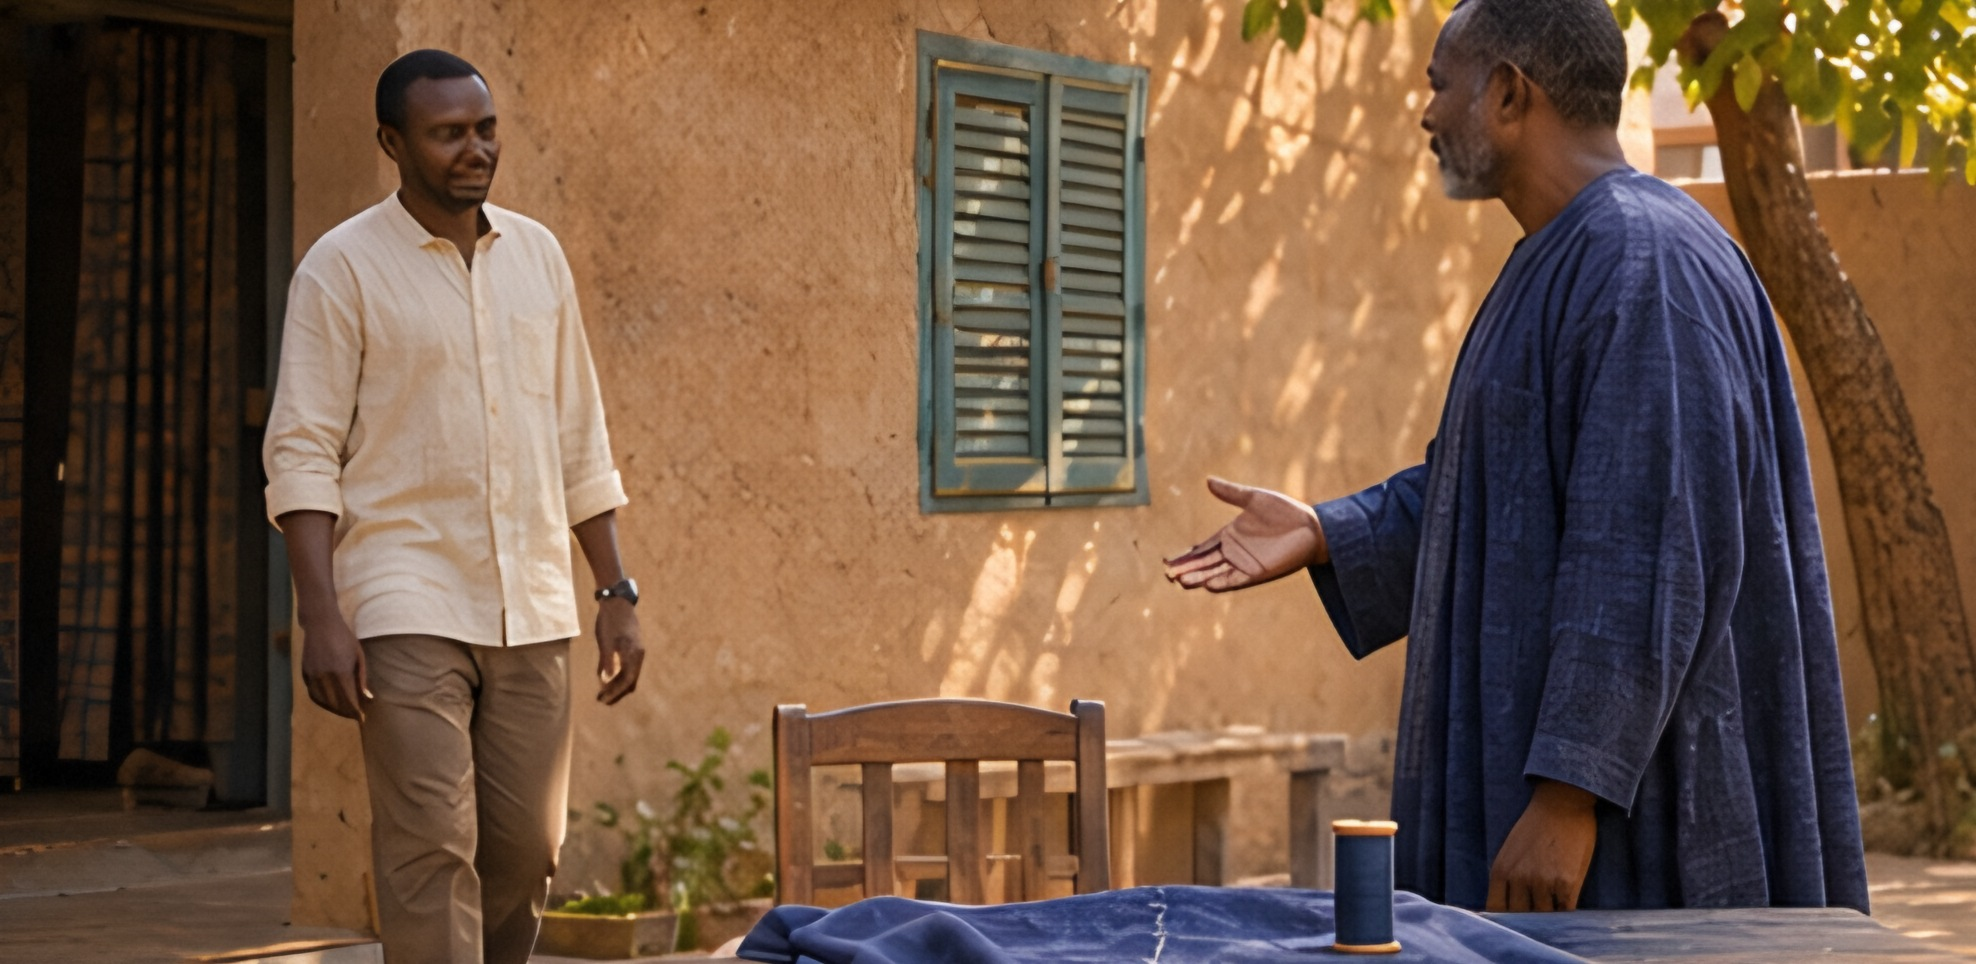
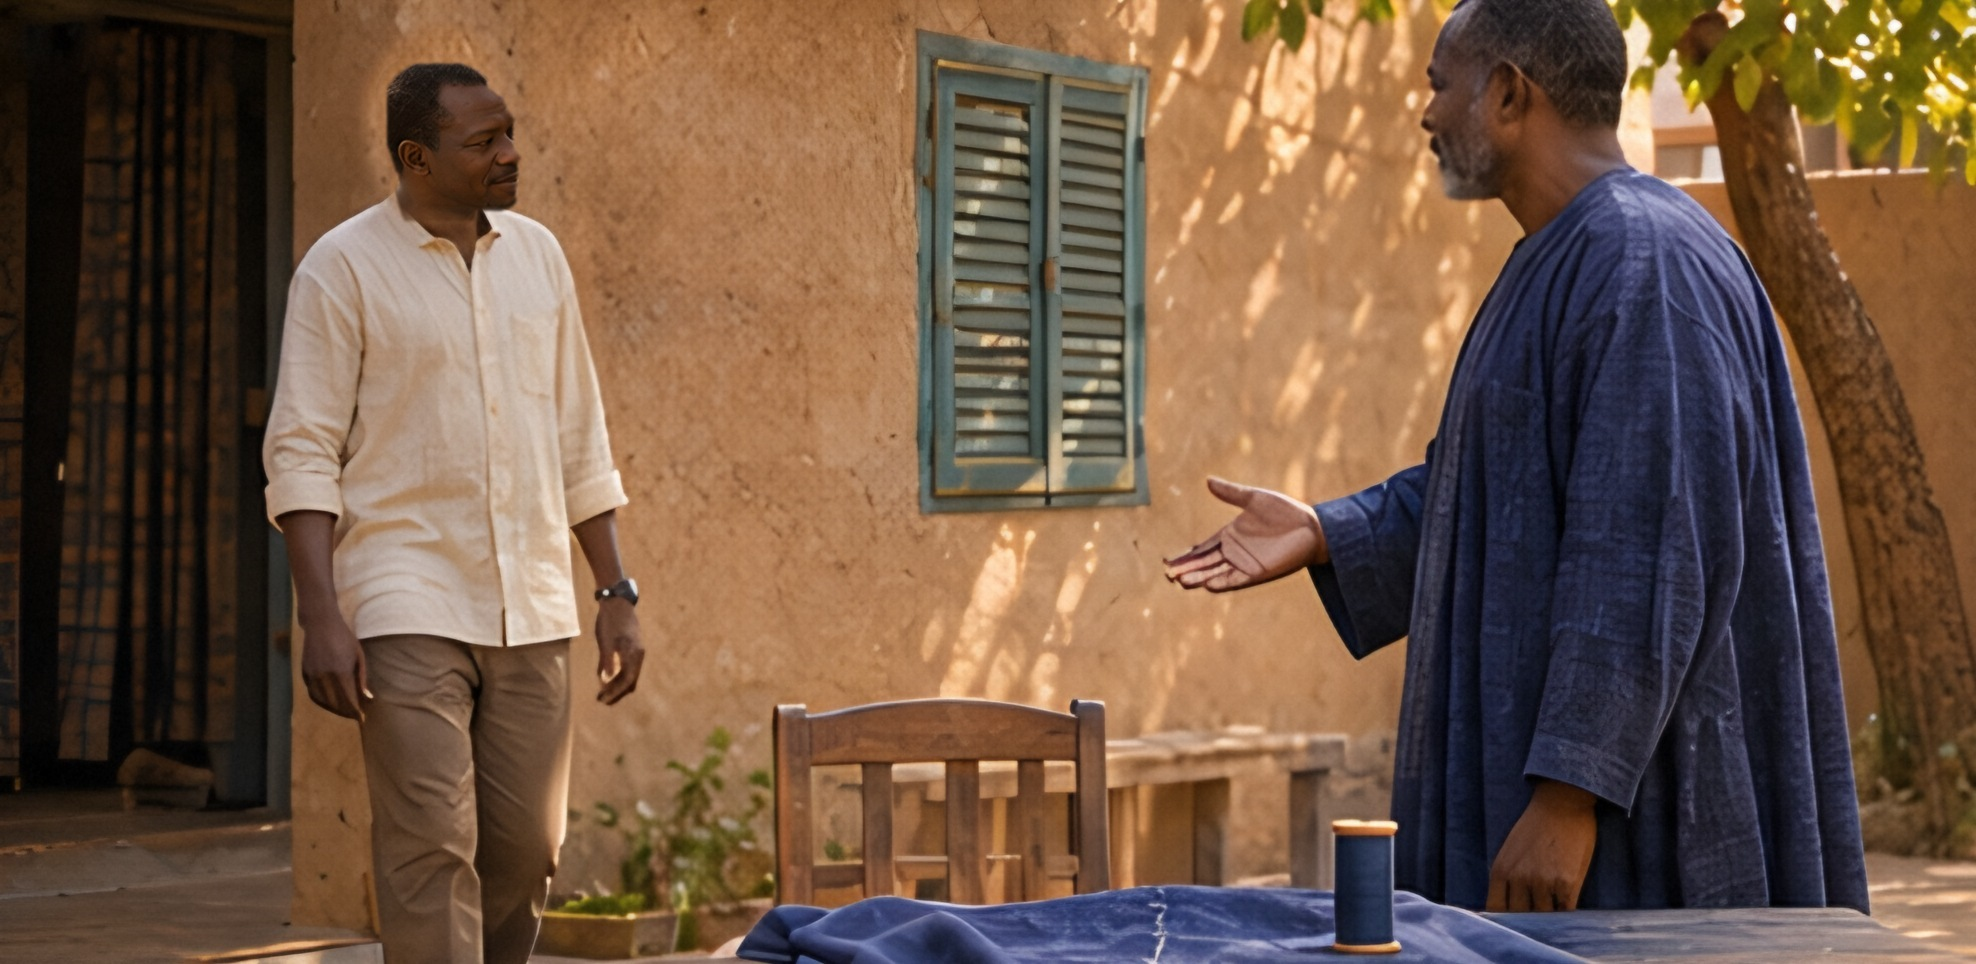
Fix second man's face in arrival shot (vignette 07) using vignette 08
Claude-Session: https://claude.ai/code/session_018pZyfgCUrmuQk4F53kTRGm

Changed region(s): [[0.1852, 0.0311, 0.2778, 0.2178]]

diff --git a/Le_fil_de_la_paix/scripts/07_fix_v07_face.py b/Le_fil_de_la_paix/scripts/07_fix_v07_face.py
@@ -1,0 +1,43 @@
+"""Corrige le visage du second homme dans la vignette 07 (arrivee) : sa tete, illisible apres agrandissement,
+est remplacee par celle de la vignette 08 (meme personnage, meilleure definition), retournee et raccordee.
+Usage : python3 scripts/07_fix_v07_face.py [sx] [x] [y]   -> ecrit assets/img/v07.jpg (original garde dans work/v07_orig.jpg)"""
+import cv2, numpy as np, os, sys, shutil
+if not os.path.exists('work/v07_orig.jpg'): shutil.copy('assets/img/v07.jpg', 'work/v07_orig.jpg')
+A = cv2.imread('work/v07_orig.jpg'); B = cv2.imread('assets/img/v08.jpg')
+S = float(sys.argv[1]) if len(sys.argv) > 1 else 0.42
+PX = int(sys.argv[2]) if len(sys.argv) > 2 else 364      # coin haut-gauche du collage dans v07
+PY = int(sys.argv[3]) if len(sys.argv) > 3 else 58
+# 1) detourage de la tete dans v08
+x0, y0, x1, y1 = 1380, 0, 1800, 440
+roi = B[y0:y1, x0:x1].copy(); m = np.zeros(roi.shape[:2], np.uint8)
+bg, fg = np.zeros((1, 65), np.float64), np.zeros((1, 65), np.float64)
+cv2.grabCut(roi, m, (40, 8, 330, 430), bg, fg, 6, cv2.GC_INIT_WITH_RECT)
+mask = np.where((m == 1) | (m == 3), 255, 0).astype(np.uint8)
+hsv = cv2.cvtColor(roi, cv2.COLOR_BGR2HSV)
+shirt = ((hsv[..., 2] > 150) & (hsv[..., 1] < 95)).astype(np.uint8) * 255      # chemise ecrue : exclue
+mask[shirt > 0] = 0
+mask = cv2.morphologyEx(mask, cv2.MORPH_OPEN, np.ones((7, 7), np.uint8))
+n, lab, st, _ = cv2.connectedComponentsWithStats(mask)
+mask = np.where(lab == 1 + np.argmax(st[1:, cv2.CC_STAT_AREA]), 255, 0).astype(np.uint8)
+mask = cv2.morphologyEx(mask, cv2.MORPH_CLOSE, np.ones((15, 15), np.uint8))
+mask[395:, :] = 0
+# 2) miroir + mise a l'echelle
+roi, mask = roi[:, ::-1], mask[:, ::-1]
+w, h = int(roi.shape[1] * S), int(roi.shape[0] * S)
+roi = cv2.resize(roi, (w, h), interpolation=cv2.INTER_AREA); mask = cv2.resize(mask, (w, h), interpolation=cv2.INTER_AREA)
+# 3) effacer l'ancienne tete : report d'un pan de mur voisin
+out = A.copy().astype(np.float32)
+hx0, hx1, hy0, hy1 = 356, 520, 30, 212
+old = np.zeros(A.shape[:2], np.float32); cv2.ellipse(old, (438, 122), (74, 98), 0, 0, 360, 1, -1)
+old = cv2.GaussianBlur(old, (0, 0), 7)[..., None]
+wall = np.roll(A, -175, axis=1).astype(np.float32)          # mur situe 175 px a droite
+out = out * (1 - old) + wall * old
+# 4) accord colorimetrique sur la peau de v07 puis collage adouci
+ref = A[150:200, 400:470].reshape(-1, 3).astype(np.float32).mean(0)          # joue / machoire d'origine
+src = roi[mask > 200].astype(np.float32).mean(0)
+roi = np.clip(roi.astype(np.float32) * (0.55 + 0.45 * ref / src), 0, 255)
+al = cv2.GaussianBlur(cv2.erode(mask, np.ones((5, 5), np.uint8)), (0, 0), 1.3).astype(np.float32)[..., None] / 255
+al[int(h * 0.80):] *= np.linspace(1, 0, h - int(h * 0.80))[:, None, None]      # fondu du cou vers le col
+out[PY:PY + h, PX:PX + w] = out[PY:PY + h, PX:PX + w] * (1 - al) + roi * al
+cv2.imwrite('assets/img/v07.jpg', out.astype(np.uint8), [cv2.IMWRITE_JPEG_QUALITY, 93])
+cv2.imwrite('work/v07_fix_preview.jpg', np.hstack([A[0:520, 180:720], out.astype(np.uint8)[0:520, 180:720]]))
